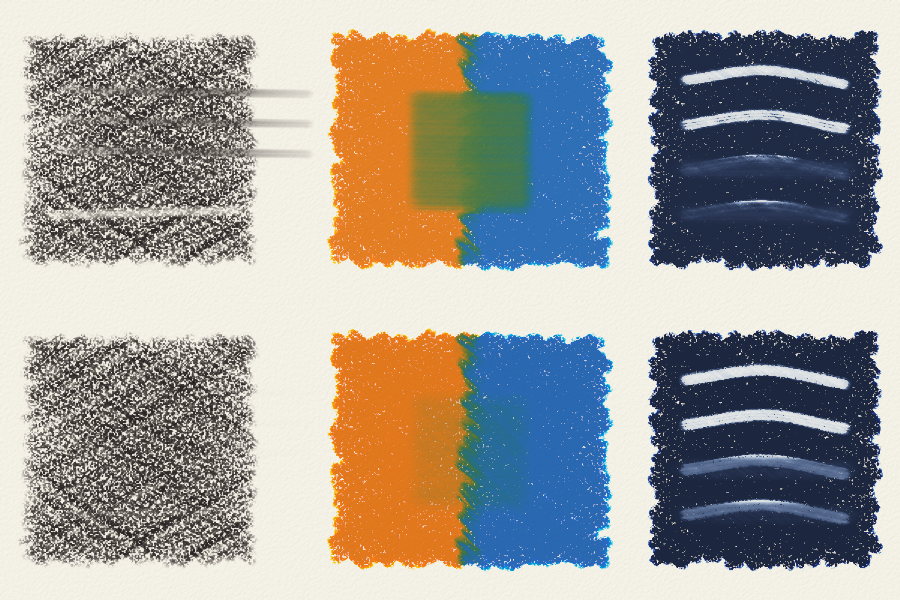
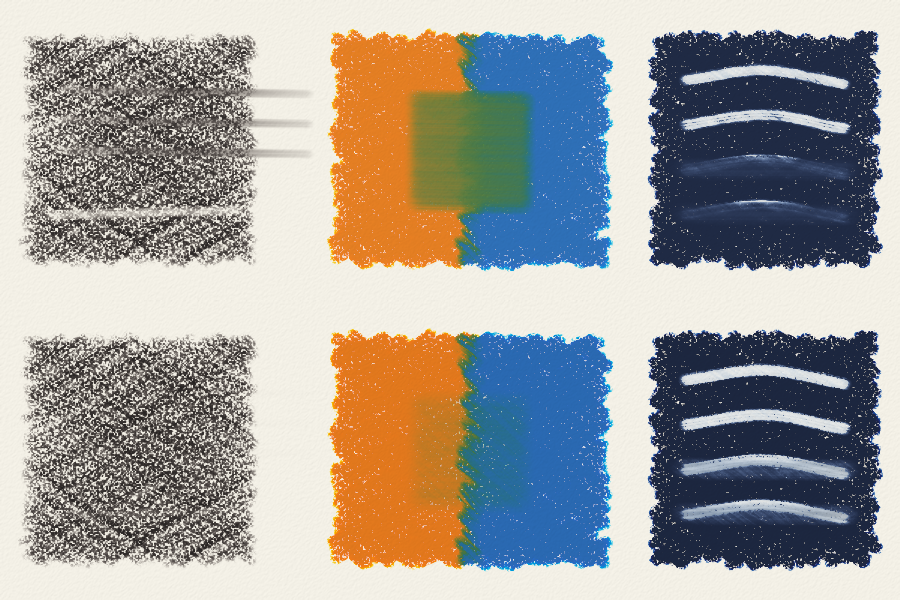
Keep fixed dust fixed under a new layer (#17)
The fixed volume was one number per pixel, so fresh dust over a fixed
layer made part of that layer loose again: a finger lifted and stirred
it, and a second coat of fixative darkened it once more. It is now
tracked in each of the two dust layers and goes under with its dust.
A layer that is set also keeps the dust above it from being pressed into
the paper, where it would have shown under the fixed layer.

Claude-Session: https://claude.ai/code/session_01EHReoi1LTNPtq461jGULpV

Changed region(s): [[0.7467, 0.75, 0.9644, 0.87]]

diff --git a/fusain/_engine.py b/fusain/_engine.py
@@ -173,25 +173,33 @@ def tip_bearing(dx, dy, tx, ty, wide, long, rounded):
 
 
 @njit(cache=True, error_model="numpy")
-def free_share(fixed, under, loose, iy, ix):
-    """The share of the dust at a pixel that fixative has not set (``fixed``
-    is the volume of dust it has)."""
-    dust = under[iy, ix, IV] + loose[iy, ix, IV]
-    if fixed[iy, ix] <= 0.0 or dust <= 0.0:
+def free_share(fixed, layer, iy, ix, which):
+    """The share of a layer of dust at a pixel that fixative has not set.
+    ``fixed`` holds, for each pixel, the volume it has set in the dust
+    underneath (``which`` 0) and in the dust on top (1)."""
+    there = layer[iy, ix, IV]
+    if fixed[iy, ix, which] <= 0.0 or there <= 0.0:
         return 1.0
-    return 1.0 - min(fixed[iy, ix] / dust, 1.0)
+    return 1.0 - min(fixed[iy, ix, which] / there, 1.0)
 
 
 @njit(cache=True, error_model="numpy")
-def press_dust(held, under, loose, iy, ix, share):
-    """Press the ``share`` of the dust at a pixel into the paper."""
+def press_dust(held, under, loose, fixed, cover, iy, ix, share):
+    """Press the ``share`` of the dust at a pixel into the paper: of the
+    dust that fixative has not set (``fixed``), and less of it the more a
+    layer that is set lies between it and the paper."""
     if loose[iy, ix, IV] <= 0.0 and under[iy, ix, IV] <= 0.0:
         return  # (no dust here: most pixels of a first pass)
+    barrier = fixed[iy, ix, 0] + fixed[iy, ix, 1]
+    if barrier > 0.0:
+        share *= 1.0 - min(barrier / max(cover[iy, ix], 1e-6) / COVERS, 1.0)
+    from_loose = share * free_share(fixed, loose, iy, ix, 1)
+    from_under = share * free_share(fixed, under, iy, ix, 0)
     for part in range(LOOSE):
-        moved = loose[iy, ix, part] * share
+        moved = loose[iy, ix, part] * from_loose
         loose[iy, ix, part] -= moved
         held[iy, ix, part] += moved
-        moved = under[iy, ix, part] * share
+        moved = under[iy, ix, part] * from_under
         under[iy, ix, part] -= moved
         held[iy, ix, part] += moved
 
@@ -214,10 +222,11 @@ def burnish(held, press, drag, iy, ix, polish, lay):
 
 
 @njit(cache=True, error_model="numpy")
-def settle_dust(fresh, cover, under, loose, k, s, sheen, xs, ys, bound):
+def settle_dust(fresh, cover, fixed, under, loose, k, s, sheen, xs, ys, bound):
     """At the end of a pass, put its dust (``fresh``, a volume per pixel) on
     top of the dust that was there, which goes under it, and leave ``fresh``
-    empty again. Only where the tip went: within ``bound`` of the points
+    empty again; the dust that goes under takes with it what fixative has
+    set of it (``fixed``). Only where the tip went: within ``bound`` of the points
     (``xs``, ``ys``)."""
     height, width = fresh.shape
     for i in range(xs.shape[0]):
@@ -236,6 +245,10 @@ def settle_dust(fresh, cover, under, loose, k, s, sheen, xs, ys, bound):
                     moved = loose[iy, ix, part] * buried
                     loose[iy, ix, part] -= moved
                     under[iy, ix, part] += moved
+                # (what fixative has set of it goes under with it)
+                moved = fixed[iy, ix, 1] * buried
+                fixed[iy, ix, 1] -= moved
+                fixed[iy, ix, 0] += moved
                 for band in range(N):
                     loose[iy, ix, band] += dust * k[band]
                 loose[iy, ix, IS] += dust * s
@@ -288,8 +301,8 @@ def lay_stroke(
     What the paper does not hold of it is dust, gathered in ``fresh`` (empty
     before and after) and laid at the end of the pass on top of the dust that
     was there (``loose``), which goes ``under`` it. Dust that fixative has set
-    (``fixed``, a volume per pixel) is not pressed in, and takes less of the
-    room in the tooth. Wax films over the tooth,
+    (``fixed``, its volume in each of the two layers) is not pressed in, and
+    takes less of the room in the tooth. Wax films over the tooth,
     which then takes less (:func:`resist_of`); pressed hard, the tip polishes
     it flat (``press``) and smears it along.
 
@@ -368,7 +381,9 @@ def lay_stroke(
                 cover[iy, ix] = covered
                 there = held[iy, ix, IV] + under[iy, ix, IV] + loose[iy, ix, IV]
                 thick = (there + fresh[iy, ix]) / covered
-                thick -= (1.0 - FIXED_ROOM) * fixed[iy, ix] / covered
+                thick -= (
+                    (1.0 - FIXED_ROOM) * (fixed[iy, ix, 0] + fixed[iy, ix, 1]) / covered
+                )
                 bearing = min(local, 1.0)
                 passing = per_pass * step * touch
                 waxy = min(held[iy, ix, IW] / covered / WAX_FULL, 1.0)
@@ -378,8 +393,7 @@ def lay_stroke(
                     burnish(held, press, drag, iy, ix, polish, lay_back)
                 # the tip presses some of the dust under it into the paper
                 pressed = min(PRESS_IN * bearing, 1.0) * passing
-                pressed *= free_share(fixed, under, loose, iy, ix)
-                press_dust(held, under, loose, iy, ix, pressed)
+                press_dust(held, under, loose, fixed, cover, iy, ix, pressed)
                 room = full * (FILL_LIGHT + (1.0 - FILL_LIGHT) * bearing) - thick
                 if room <= 0.0:
                     continue
@@ -398,7 +412,7 @@ def lay_stroke(
                 fresh[iy, ix] += dv - kept
                 total += dv
     if binding < 1.0:  # (else there is no dust to settle)
-        settle_dust(fresh, cover, under, loose, k, s, sheen, xs, ys, reached)
+        settle_dust(fresh, cover, fixed, under, loose, k, s, sheen, xs, ys, reached)
     # (what the tip still drags at the end has left the paper with it)
     return total - drag[IV]
 
@@ -431,8 +445,8 @@ def rub_stroke(
     the dust underneath up into the dust on top and spreads it over the
     pixel; and over each of its own widths the tool lays the share ``lay`` of
     what it carries back down, as dust on top. Dust that fixative has set
-    (``fixed``, a volume per pixel) is lifted only as held pigment is, and is
-    neither pressed in nor stirred.
+    (``fixed``, its volume in each of the two layers) is lifted only as held
+    pigment is, and is neither pressed in nor stirred.
 
     Returns what the tool carries at the end: [K (N bands), S, volume, sheen].
     """
@@ -466,13 +480,15 @@ def rub_stroke(
                 local *= streak_at(dx, dy, tx, ty, salt)
                 share = local * per_pass * step  # of one pass at full pressure
                 # lift
-                free = free_share(fixed, under, loose, iy, ix)
                 up_held = min(lift_held * share, 1.0)
+                free = free_share(fixed, loose, iy, ix, 1)
                 up_loose = min(lift_loose * share, 1.0) * free
                 up_loose += up_held * (1.0 - free)
+                free = free_share(fixed, under, iy, ix, 0)
                 up_under = min(UNDER_LIFT * lift_loose * share, 1.0) * free
                 up_under += up_held * (1.0 - free)
-                fixed[iy, ix] -= fixed[iy, ix] * up_held
+                fixed[iy, ix, 0] -= fixed[iy, ix, 0] * up_held
+                fixed[iy, ix, 1] -= fixed[iy, ix, 1] * up_held
                 for part in range(LOOSE):
                     taken = loose[iy, ix, part] * up_loose
                     loose[iy, ix, part] -= taken
@@ -500,14 +516,17 @@ def rub_stroke(
                 cover[iy, ix] += bare * (laid / after)
                 # press in; stir up what is underneath; and push what is
                 # loose into the low ground
-                free = free_share(fixed, under, loose, iy, ix)
-                press_dust(held, under, loose, iy, ix, min(press * share, 1.0) * free)
-                stirred = min(smear * share, 1.0) * free
+                spent = min(press * share, 1.0)
+                press_dust(held, under, loose, fixed, cover, iy, ix, spent)
+                stirred = min(smear * share, 1.0)
+                moving = stirred * free_share(fixed, under, iy, ix, 0)
                 for part in range(LOOSE):
-                    moved = under[iy, ix, part] * stirred
+                    moved = under[iy, ix, part] * moving
                     under[iy, ix, part] -= moved
                     loose[iy, ix, part] += moved
-                dusty = (under[iy, ix, IV] + loose[iy, ix, IV]) / after
+                free = under[iy, ix, IV] + loose[iy, ix, IV]
+                free -= fixed[iy, ix, 0] + fixed[iy, ix, 1]
+                dusty = max(free, 0.0) / after
                 cover[iy, ix] += (1.0 - cover[iy, ix]) * stirred * dusty
     return load
 

diff --git a/tests/test_fixative.py b/tests/test_fixative.py
@@ -51,7 +51,9 @@ def test_fixing_sets_all_the_dust_once():
     dust = float(_dust(sheet).sum(dtype=np.float64))
     assert not sheet.fixed.any()
     assert sheet.fix() == pytest.approx(dust, rel=1e-6)
-    assert np.allclose(sheet.fixed, _dust(sheet), rtol=1e-5, atol=1e-7)
+    assert sheet.fixed.shape == (150, 200, 2)
+    assert np.array_equal(sheet.fixed[..., 0], sheet.under[..., IV])
+    assert np.array_equal(sheet.fixed[..., 1], sheet.loose[..., IV])
     tone = _tone(sheet)
     assert sheet.fix() == pytest.approx(0.0, abs=1e-3)
     assert _tone(sheet) == tone
@@ -128,7 +130,7 @@ def test_a_finger_hardly_moves_fixed_dust(medium):
     fixed.fix()
     carried = [_carried_out(sheet) for sheet in (loose, half, fixed)]
     assert carried[2] < 0.05 * carried[0]
-    assert 0.3 * carried[0] < carried[1] < 0.7 * carried[0]
+    assert 0.4 * carried[0] < carried[1] < 0.85 * carried[0]
 
 
 def test_a_stump_and_a_kneaded_eraser_take_little_and_a_hard_eraser_most():
@@ -161,7 +163,8 @@ def test_rubbing_and_erasing_fixed_dust_conserves_it():
     carried += sheet.erase([(30, 75), (170, 75)], tools.KNEADED, 0.8)
     assert _total(sheet) + carried == pytest.approx(total, rel=1e-5)
     assert sheet.fixed.min() >= 0.0
-    assert (sheet.fixed <= _dust(sheet) + 1e-5).all()
+    for which, layer in enumerate((sheet.under, sheet.loose)):
+        assert (sheet.fixed[..., which] <= layer[..., IV] + 1e-5).all()
     # where the hard eraser went, the fixative went with the dust
     assert sheet.fixed[44:48, 60:140].mean() < 0.3 * sheet.fixed[30:34, 60:140].mean()
 
@@ -179,7 +182,7 @@ def test_fixed_pastel_takes_more_and_the_new_layer_is_loose():
     assert more > 1.2 * loose.shade(BOX, red, 0.7, 12, angle=-20)
     # only what was laid since is free to move
     carried = _carried_out(fixed)
-    assert 0.0 < carried < 0.5 * _carried_out(loose)
+    assert 0.0 < carried < 0.7 * _carried_out(loose)
     assert carried > 5 * _carried_out(_fixed_only())
 
 
@@ -201,3 +204,86 @@ def test_a_pencil_does_not_press_fixed_dust_into_the_paper():
         pressed.append(dust - float(_dust(sheet).sum(dtype=np.float64)))
     assert pressed[0] > 100.0
     assert abs(pressed[1]) < 0.01 * pressed[0]
+
+
+# --------------------------------------------------------------------------
+# a fixed layer under a loose one
+
+
+def _white_over_fixed_black(fix: bool) -> Sheet:
+    sheet = _drawn(pastels.soft(BLACK), layers=1)
+    if fix:
+        sheet.fix()
+    sheet.shade(BOX, pastels.soft(WHITE), 0.8, 12, angle=-30)
+    return sheet
+
+
+def _rubbed(sheet) -> Sheet:
+    for k in range(6):
+        y = 55 + 7 * k
+        sheet.smudge([(40, y), (160, y)], tools.FINGER, 0.7)
+        sheet.smudge([(160, y + 3), (40, y + 3)], tools.FINGER, 0.7)
+    return sheet
+
+
+def test_the_fixed_dust_goes_under_the_new_layer_and_stays_fixed():
+    sheet = _drawn(pastels.soft(BLACK), layers=1)
+    fixed = sheet.fix()
+    sheet.shade(BOX, pastels.soft(WHITE), 0.8, 12, angle=-30)
+    # (no fixative was added or lost; most of it went under with its dust)
+    assert float(sheet.fixed.sum(dtype=np.float64)) == pytest.approx(fixed, rel=1e-5)
+    assert sheet.fixed[INSIDE][..., 0].sum() > 5 * sheet.fixed[INSIDE][..., 1].sum()
+    # the layer on top is loose
+    top = float(sheet.loose[INSIDE][..., IV].sum())
+    assert sheet.fixed[INSIDE][..., 1].sum() < 0.1 * top
+
+
+def test_rubbing_a_new_layer_does_not_stir_up_the_fixed_one_under_it():
+    band = (slice(55, 95), slice(60, 140))
+    tones = {}
+    for fix in (False, True):
+        sheet = _white_over_fixed_black(fix)
+        before = _tone(sheet, band)
+        held = float(sheet.held[band][..., IV].sum())
+        fixed = float(sheet.fixed[band][..., 0].sum())
+        _rubbed(sheet)
+        tones[fix] = _tone(sheet, band) / before
+        pressed = float(sheet.held[band][..., IV].sum()) / held
+        if fix:
+            # the black stays where it was, set, and the finger presses next
+            # to nothing into the paper through it
+            assert float(sheet.fixed[band][..., 0].sum()) > 0.95 * fixed
+            assert float(sheet.under[band][..., IV].sum()) > 0.95 * fixed
+            assert pressed < 1.1
+        else:
+            assert pressed > 2.0
+    # unfixed, the finger grinds the black and the white together into the
+    # paper, a dark grey; fixed, a haze of white is left over the black
+    assert tones[False] < 0.15
+    assert tones[True] > 2 * tones[False]
+
+
+def test_a_second_coat_darkens_only_what_it_newly_sets():
+    sheet = _drawn(pastels.soft(BLACK), layers=1)
+    sheet.fix()
+    sheet.shade(BOX, pastels.soft(WHITE), 0.8, 12, angle=-30)
+    was_set = sheet.fixed.copy()
+    layers = (sheet.under, sheet.loose)
+    scatter = [layer[..., IS].astype(np.float64) for layer in layers]
+    assert sheet.fix() > 0
+    for which, layer in enumerate(layers):
+        volume = layer[..., IV].astype(np.float64)
+        newly = np.clip(volume - was_set[..., which], 0.0, None)
+        share = newly / np.maximum(volume, 1e-9)
+        expected = scatter[which] * (1.0 - 0.15 * share)
+        assert np.allclose(layer[..., IS], expected, rtol=1e-4, atol=1e-6)
+    # where the first coat had set all of a layer, the second leaves it alone
+    all_set = was_set[..., 0] >= 0.999 * sheet.under[..., IV]
+    all_set &= sheet.under[..., IV] > 0
+    assert all_set.sum() > 100
+    assert np.allclose(sheet.under[..., IS][all_set], scatter[0][all_set], rtol=1e-3)
+    # and the new layer on top, loose until now, scatters 15% less
+    top = (slice(50, 100), slice(50, 150))
+    ratio = float(sheet.loose[top][..., IS].sum()) / float(scatter[1][top].sum())
+    assert 0.85 <= ratio < 0.86
+    assert sheet.fix() == pytest.approx(0.0, abs=1e-3)

diff --git a/fusain/sheet.py b/fusain/sheet.py
@@ -90,8 +90,9 @@ class Sheet:
         # the dust of the pass being drawn, until it settles (empty between
         # strokes)
         self._fresh = np.zeros((H, W), np.float32)
-        # the volume of dust that fixative has set, at each pixel
-        self.fixed = np.zeros((H, W), np.float32)
+        # the volume of dust that fixative has set at each pixel, in the
+        # dust underneath and in the dust on top
+        self.fixed = np.zeros((H, W, 2), np.float32)
 
     def copy(self) -> Sheet:
         """An independent copy: drawing on one leaves the other alone."""
@@ -369,13 +370,17 @@ class Sheet:
         """
         if not 0.0 <= amount <= 1.0:
             raise ValueError(f"amount must be between 0 and 1, got {amount!r}")
-        dust = self.under[..., IV] + self.loose[..., IV]
-        newly = np.maximum(dust - self.fixed, 0.0) * np.float32(amount)
-        share = newly / np.maximum(dust, np.float32(1e-9))
-        for layer in (self.under, self.loose):
+        total = 0.0
+        for which, layer in enumerate((self.under, self.loose)):
+            volume = layer[..., IV]
+            newly = np.maximum(volume - self.fixed[..., which], 0.0)
+            newly *= np.float32(amount)
+            # (only what is newly set darkens)
+            share = newly / np.maximum(volume, np.float32(1e-9))
             layer[..., IS] *= 1.0 - np.float32(FIXATIVE_DARKENS) * share
-        self.fixed += newly
-        return float(newly.sum(dtype=np.float64))
+            self.fixed[..., which] += newly
+            total += float(newly.sum(dtype=np.float64))
+        return total
 
     def _rub(self, path, tool: Tool, pressure: Profile, width: float | None) -> float:
         if not isinstance(tool, Tool):

diff --git a/docs/design.md b/docs/design.md
@@ -38,7 +38,7 @@ Per pixel, all `float32`:
 | `press` | How far the tooth has been crushed or polished here (0 to 1): burnishing, and lines indented with a stylus. |
 | `cover` | Share of the pixel that carries pigment (0 to 1); the rest shows bare paper. |
 | `held` | Pigment fixed to the paper: absorption K over 24 spectral bands, scattering S, volume, how much of the volume shines (graphite) and how much is wax. |
-| `fixed` | Volume of the dust here that fixative has set. |
+| `fixed` | Volume of the dust here that fixative has set, in each of the two layers of dust. |
 | `under`, `loose` | Pigment lying on the surface as dust: K, S, volume and sheen, in two layers. `loose` is on top; what a new pass covers goes `under`. |
 
 That is about 0.34 KB per pixel, as much as oilpaint. As there, storing summed
@@ -107,8 +107,10 @@ A tool is a tip plus, usually, a medium.
   `loose`), hard eraser (also abrades `held`), burnisher.
 - **Fixative** (built) acts on the whole sheet. It does not move the dust into
   `held`, which would mix a light pastel into the dark one under it: the dust
-  stays in its two layers, and `fixed` records how much of it is set. Dust
-  that is set is lifted only as held pigment is, is not pressed in or stirred,
+  stays in its two layers, and `fixed` records how much of each is set (it
+  goes under with its dust when a new pass covers it). Dust that is set is
+  lifted only as held pigment is, is not pressed in or stirred, keeps loose
+  dust above it from being pressed into the paper,
   scatters a little less light (fixative darkens), and takes half the room in
   the tooth, so that more can be laid over it. What is laid afterwards is
   loose.

diff --git a/CHANGELOG.md b/CHANGELOG.md
@@ -11,8 +11,10 @@ and the project adheres to [Semantic Versioning](https://semver.org/).
 - Fixative, `Sheet.fix(amount=1.0)`: sets the dust where it lies. A stump or
   a finger hardly moves it afterwards and a kneaded eraser lifts little; a
   hard eraser still takes it off. It shows as it lay, a little darker, and
-  takes more layers, which are loose again. `Sheet.fixed` is the volume of
-  dust set at each pixel.
+  takes more layers, which are loose again: rubbing them leaves the fixed
+  layer underneath alone, and a second coat darkens only what it newly sets.
+  `Sheet.fixed` is the volume of dust set at each pixel, in each of the two
+  layers of dust.
 - Graphite shines. `Medium.sheen` is how much of a medium mirrors the light
   (graphite only, the more the softer the lead), `Sheet.shine()` is how much
   of each pixel does, and `Sheet.render` adds the lamp's reflection: heavy
